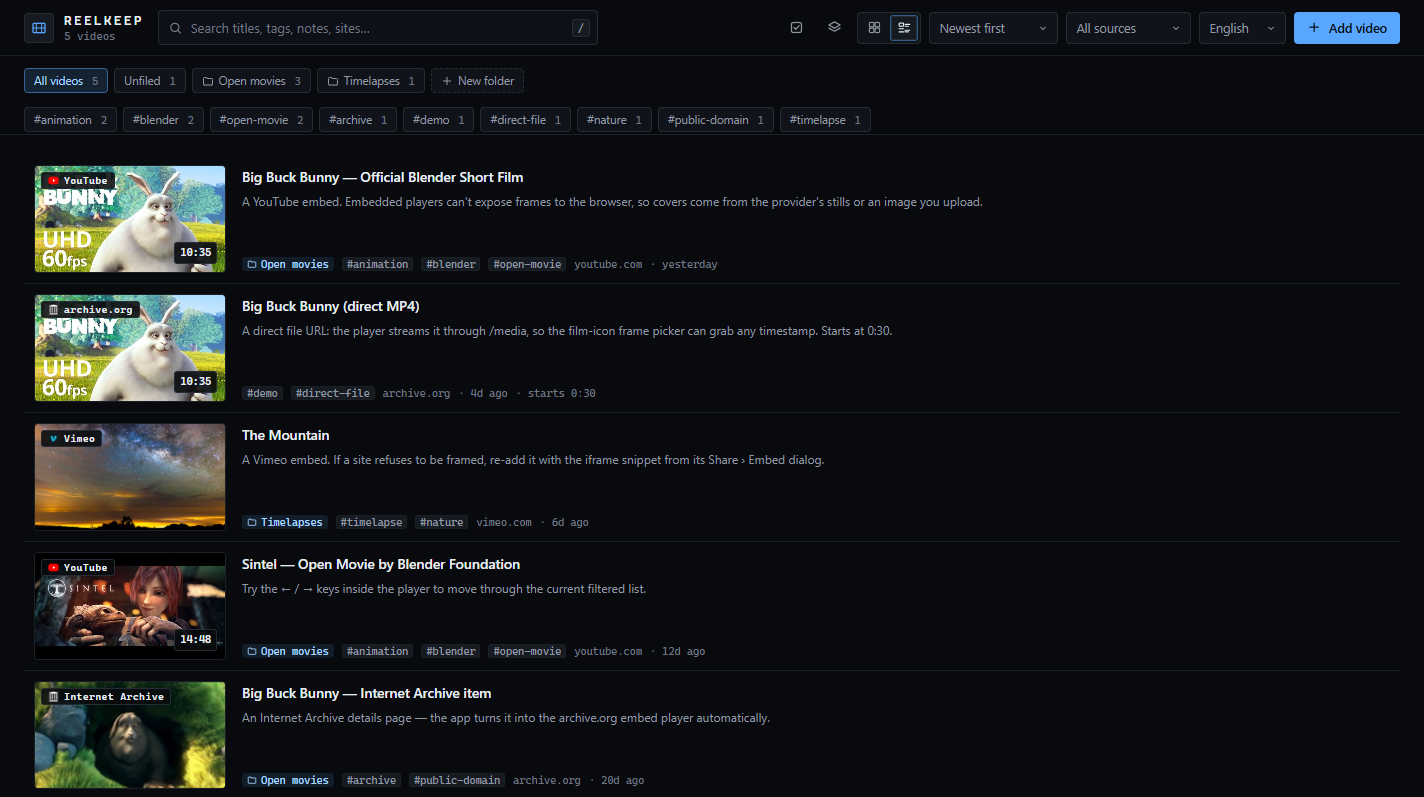
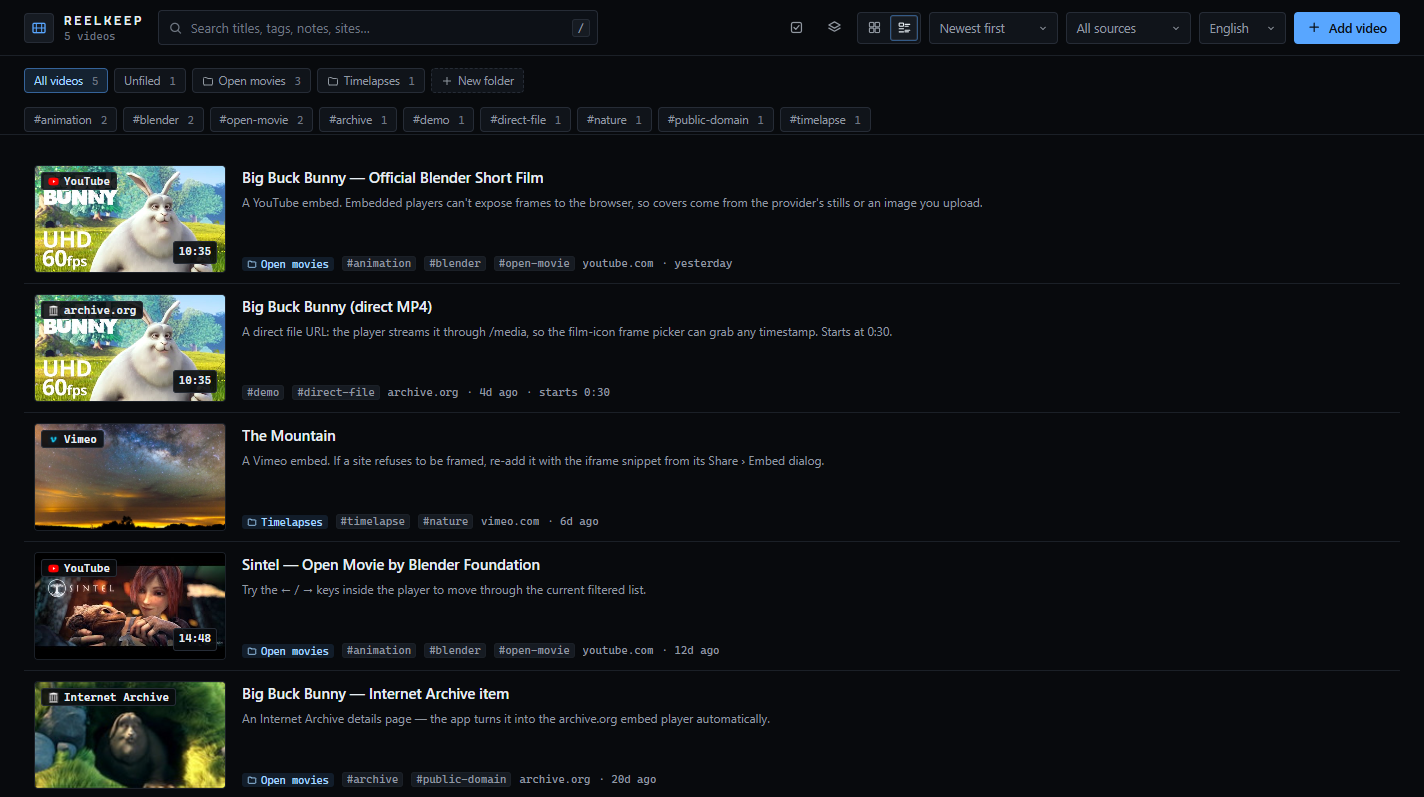
style: merge old design's strengths into screening-room identity
Meta slates 11px in --muted for legibility; ledger keeps two-line 15px titles and two-line notes; card corners 8px (controls stay 4px); accent-tinted hover borders for affordance without lift; larger play disc/badge/stamp; empty state settled at 480px. Brief and changelog updated to match.

diff --git a/styles.css b/styles.css
@@ -20,7 +20,7 @@
   --danger: #ff7b72;
   --ok: #3fb950;
   --warn: #d29922;
-  --radius: 6px;
+  --radius: 8px;
   --radius-s: 4px;
   --shadow: 0 16px 40px -18px rgba(0, 0, 0, 0.9);
   --font: ui-sans-serif, -apple-system, "Segoe UI", Roboto, Inter, "Helvetica Neue", Arial, "Noto Sans", "Noto Sans Arabic", "Noto Sans Devanagari", "Noto Sans SC", "Noto Sans JP", "Noto Sans KR", sans-serif;
@@ -227,7 +227,8 @@ body.drag-ids .folderbar .chip[data-folder]:not([data-folder="all"]) {
   animation: fade-in var(--speed) ease-out both;
 }
 @keyframes fade-in { from { opacity: 0; } }
-.card:hover { border-color: #333a45; background: var(--panel-2); }
+/* accent-tinted border = clear click affordance without lift or shadow */
+.card:hover { border-color: rgba(88, 166, 255, 0.45); background: var(--panel-2); }
 .card:hover .thumb-play { opacity: 1; }
 .card:hover .card-actions { opacity: 1; }
 
@@ -243,14 +244,14 @@ body.drag-ids .folderbar .chip[data-folder]:not([data-folder="all"]) {
 .badge {
   position: absolute; inset-inline-start: 8px; top: 8px; z-index: 2;
   display: inline-flex; align-items: center; gap: 5px;
-  padding: 2px 6px; border-radius: 3px; font: 600 10px var(--mono); letter-spacing: 0.04em;
+  padding: 2px 6px; border-radius: 3px; font: 600 10.5px var(--mono); letter-spacing: 0.04em;
   background: rgba(8, 10, 13, 0.88); color: var(--text);
   border: 1px solid var(--line);
 }
 .badge img { width: 11px; height: 11px; border-radius: 2px; }
 .stamp {
   position: absolute; inset-inline-end: 8px; bottom: 8px; z-index: 2;
-  padding: 1px 5px; border-radius: 3px; font: 600 10.5px/1.7 var(--mono);
+  padding: 1px 5px; border-radius: 3px; font: 600 11px/1.7 var(--mono);
   font-variant-numeric: tabular-nums;
   background: rgba(8, 10, 13, 0.88); color: var(--text); border: 1px solid var(--line);
 }
@@ -260,7 +261,7 @@ body.drag-ids .folderbar .chip[data-folder]:not([data-folder="all"]) {
   transition: opacity var(--speed);
 }
 .thumb-play span {
-  width: 44px; height: 44px; border-radius: 50%; display: grid; place-items: center;
+  width: 48px; height: 48px; border-radius: 50%; display: grid; place-items: center;
   background: var(--accent); color: #081018;
 }
 .thumb-play svg { width: 18px; height: 18px; margin-inline-start: 2px; }
@@ -283,7 +284,7 @@ body.drag-ids .folderbar .chip[data-folder]:not([data-folder="all"]) {
 }
 .card-sub {
   margin-top: auto; display: flex; align-items: center; gap: 7px;
-  font: 10.5px var(--mono); color: var(--dim); flex-wrap: wrap;
+  font: 11px var(--mono); color: var(--muted); flex-wrap: wrap;
   font-variant-numeric: tabular-nums;
 }
 .card-sub .t { color: var(--muted); background: var(--panel-2); border: 1px solid var(--line-soft); border-radius: 3px; padding: 0 4px; }
@@ -298,16 +299,17 @@ body.drag-ids .folderbar .chip[data-folder]:not([data-folder="all"]) {
   border: 0; border-bottom: 1px solid var(--line-soft); border-radius: 0;
   background: transparent; animation: none;
 }
-.grid.list .card:hover { background: var(--panel); }
+.grid.list .card:hover { background: var(--panel); border-bottom-color: rgba(88, 166, 255, 0.35); }
 .grid.list .card.selected { box-shadow: inset 2px 0 0 var(--accent); }
 .grid.list .thumb { flex: 0 0 auto; width: 192px; height: auto; aspect-ratio: 16 / 9; align-self: center; border: 1px solid var(--line-soft); border-radius: var(--radius-s); margin: 10px 0 10px 10px; }
 [dir="rtl"] .grid.list .thumb { margin: 10px 10px 10px 0; }
 .grid.list .card-body { padding: 12px 16px; gap: 5px; overflow: hidden; }
-.grid.list .card-title { font-size: 14px; -webkit-line-clamp: 1; }
+/* ledger keeps the old list view's richness: two-line titles and notes */
+.grid.list .card-title { font-size: 15px; -webkit-line-clamp: 2; }
 .grid.list .card-notes {
-  display: -webkit-box; -webkit-line-clamp: 1; -webkit-box-orient: vertical; overflow: hidden;
+  display: -webkit-box; -webkit-line-clamp: 2; -webkit-box-orient: vertical; overflow: hidden;
 }
-.grid.list .card-sub { font-size: 10.5px; gap: 8px; }
+.grid.list .card-sub { font-size: 11px; gap: 8px; }
 .grid.list .badge { inset-inline-start: 6px; top: 6px; }
 .grid.list .group-head { border-bottom: 1px solid var(--line-soft); padding-inline: 4px; }
 
@@ -321,7 +323,7 @@ body.drag-ids .folderbar .chip[data-folder]:not([data-folder="all"]) {
 /* ====================================================== empty etc */
 /* editorial block: rule on top, left-aligned copy, centred in free space */
 .empty {
-  margin: auto; text-align: start; padding: 24px 8px; max-width: 560px; width: 100%;
+  margin: auto; text-align: start; padding: 28px 6px; max-width: 480px; width: 100%;
   display: flex; flex-direction: column; align-items: flex-start; gap: 10px;
   border-top: 1px solid var(--line-soft);
 }
@@ -543,7 +545,7 @@ input[type="range"] { width: 100%; accent-color: var(--accent); cursor: pointer;
   .grid.list .card { flex-direction: column; height: auto; }
   .grid.list .thumb { width: auto; height: auto; aspect-ratio: 16 / 9; margin: 0; border: 0; border-radius: 0; border-bottom: 1px solid var(--line-soft); }
   .grid.list .card-body { padding: 10px 12px 12px; }
-  .grid.list .card-title { font-size: 13px; -webkit-line-clamp: 2; }
+  .grid.list .card-title { font-size: 13.5px; -webkit-line-clamp: 2; }
   .libfoot #tip { display: none; }
 }
 @media (prefers-reduced-motion: reduce) {

diff --git a/docs/ui-brief.md b/docs/ui-brief.md
@@ -63,12 +63,13 @@ The product is a personal cinema archive, not a SaaS dashboard. The visual langu
 a **screening-room console**: contact-sheet grid, ledger list, slate metadata, broadcast
 blue. Execute these decisions exactly:
 
-1. **Corner language:** squared, not pillowy. Cards/panels `6px`, controls/chips/inputs
+1. **Corner language:** squared, not pillowy. Cards/panels `8px`, controls/chips/inputs
    `4px`, dialogs `8px`. **No pill shapes anywhere** except the circular status dot and
    the play disc. No `border-radius: 999px`.
 2. **Depth:** flat. Hairline `1px` borders on surfaces; **no shadows on cards or rows**;
-   shadows only on floating layers (dialogs, toasts). Hover = border/background colour
-   shift. **No lift (`translateY`), no scale, no zoom on thumbnails.**
+   shadows only on floating layers (dialogs, toasts). Hover = accent-tinted border +
+   background colour shift (clear click affordance, still flat). **No lift
+   (`translateY`), no scale, no zoom on thumbnails.**
 3. **Type voice:** two registers. Sans (system stack) for titles and prose; **monospace
    for everything technical**: brand wordmark, counts, durations, timestamps, hosts,
    tags, folder badges, kinds, kbd, footer, micro-labels. Micro-labels are uppercase
@@ -84,13 +85,14 @@ blue. Execute these decisions exactly:
    under them; slate strip below (sans title, mono meta row with squared tag chips).
    Badge = mono micro-label top-start; duration stamp = mono tabular bottom-end.
 7. **List = ledger:** full-width hairline-separated rows, no card boxes, small framed
-   thumb at row start, one-line title + one-line note + mono meta. Row hover = flat
-   background tint. Selection = inset accent rule at row start.
+   thumb at row start, two-line title (15px) + two-line note + mono meta — the ledger
+   keeps the old list view's information richness. Row hover = flat background tint +
+   accent-tinted separator. Selection = inset accent rule at row start.
 8. **Section heads = slates:** full-span rule with uppercase mono label left, mono count
    right (group-by-source, and the empty-state top rule).
 9. **Empty states = editorial:** left-aligned copy under a top hairline rule, small dim
-   icon, restrained CTA; block centred in the free space but content left-aligned.
-   Never a centred icon-hero.
+   icon, restrained CTA; a settled block (max-width 480px) centred in the free space
+   with left-aligned content. Never a centred icon-hero.
 10. **Motion signature:** colour/border/opacity only, `120ms` ease-out (`--speed`).
     Entrance = opacity fade only. Dialogs fade in. `prefers-reduced-motion` kills all.
 11. **Focus:** real `outline: 2px solid accent; outline-offset: 2px` (inset on cards and
@@ -122,14 +124,15 @@ Dark theme only. A light theme is a stretch goal only if it obeys the same ident
 | `--danger` | `#ff7b72` | destructive |
 | `--ok` | `#3fb950` | live-storage dot |
 | `--warn` | `#d29922` | browser-only dot |
-| `--radius` / `--radius-s` | `6px` / `4px` | surfaces / controls |
+| `--radius` / `--radius-s` | `8px` / `4px` | surfaces / controls |
 | `--shadow` | `0 16px 40px -18px rgba(0,0,0,.9)` | floating layers only |
 | `--font` | system sans + Noto fallbacks (ar/hi/zh/ja/ko) | titles, prose |
 | `--mono` | `ui-monospace, "Cascadia Mono", Consolas, "Noto Sans Mono", monospace` | slates |
 | `--speed` | `120ms` | all transitions |
 
 Every colour/radius/shadow must come from tokens; never hardcode mid-rule.
-Type scale: body 13, card title 13 (list 14), dialog h2 15, micro 10–11 mono, help 11.5.
+Type scale: body 13, card title 13 (list 15), dialog h2 15, micro 10–11 mono, meta slates
+11 mono in `--muted` (not `--dim` — legibility), help 11.5.
 
 ---
 

diff --git a/CHANGELOG.md b/CHANGELOG.md
@@ -15,6 +15,11 @@ All notable changes to this project are documented here. The format follows
   colour-only motion; outline-based focus rings; Firefox scrollbar parity.
 - `docs/ui-brief.md` restored and rewritten as a prescriptive identity handoff (the old
   constraints-only brief made every agent converge on the same generic look).
+- Refinements merging the previous design's strengths into the new identity: meta
+  slates 11px in `--muted` for legibility; ledger rows keep two-line titles (15px) and
+  two-line notes; card corners softened to 8px (controls stay 4px); accent-tinted hover
+  borders for click affordance without lift; larger play disc, badge and stamp; empty
+  state settled at 480px max-width.
 
 ### Added
 - `docs/screenshot-list.png` and a list-view capture step in `scripts/screenshot.mjs`.
